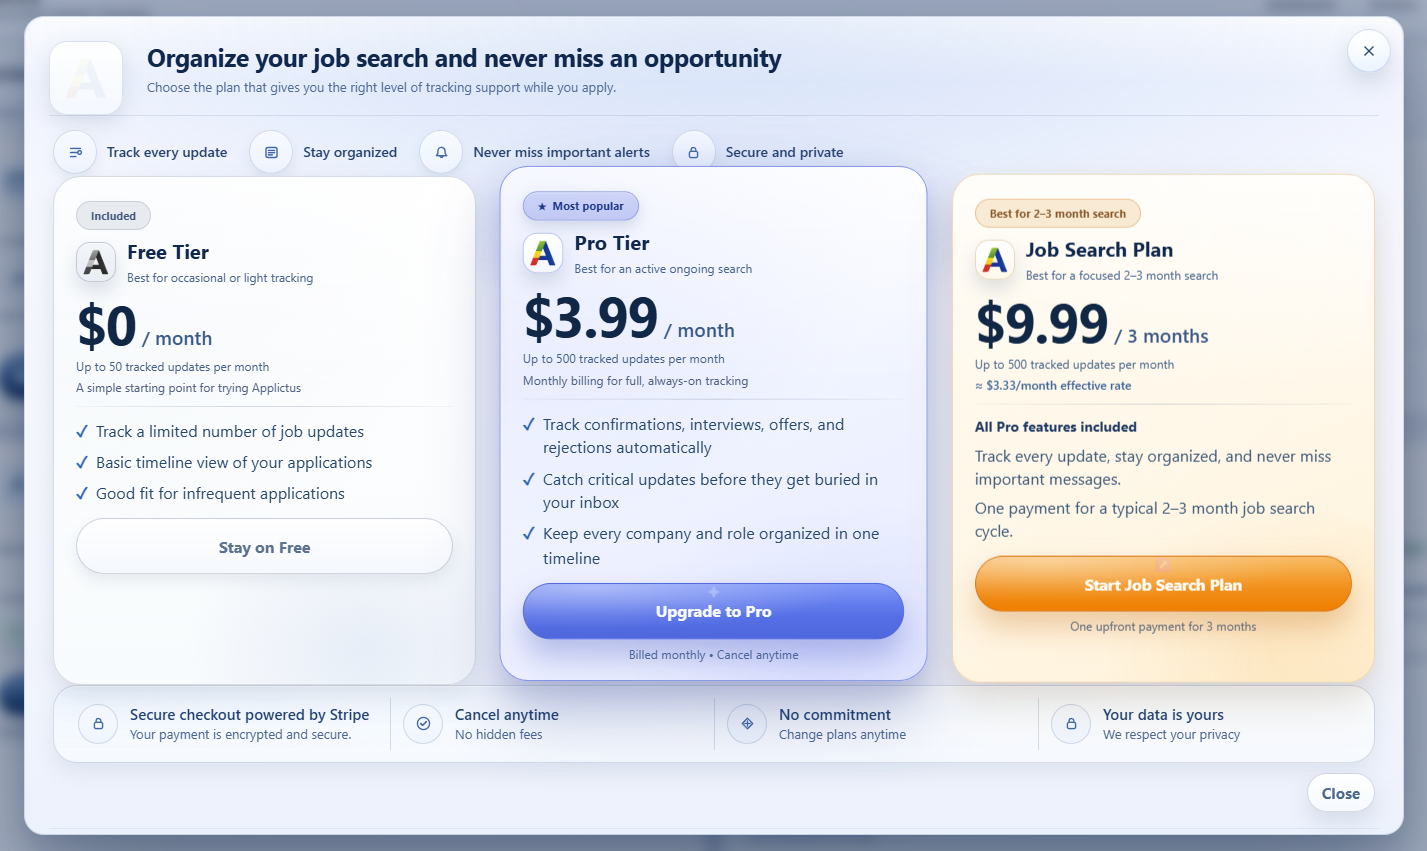
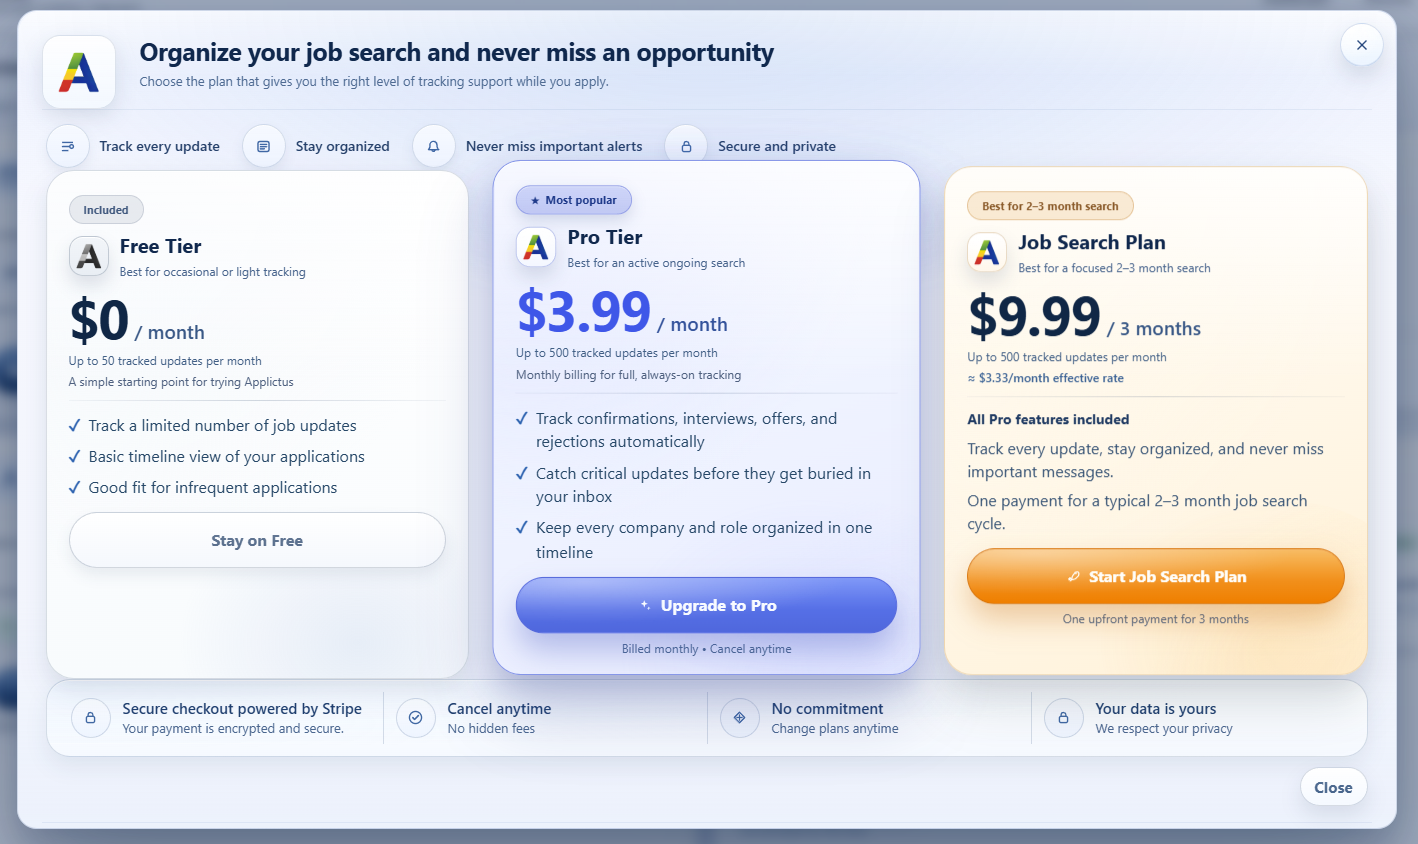
refactoring pricing modal

diff --git a/public/app.js b/public/app.js
@@ -6053,9 +6053,9 @@ function openPricingModal() {
       case 'rocket':
         return `
           <svg viewBox="0 0 20 20" focusable="false" aria-hidden="true">
-            <path d="M12.7 5.1c2.1-.6 3.7-.4 4.2.1.5.5.7 2.1.1 4.2l-3.4 3.4c-.5.5-1.1.8-1.8 1L8 14.7l.9-3.8c.2-.7.5-1.3 1-1.8Z" fill="none" stroke="currentColor" stroke-width="1.5" stroke-linejoin="round"></path>
-            <circle cx="13.6" cy="6.4" r="1" fill="currentColor"></circle>
-            <path d="M7.1 12.9 5.3 14.7M8.3 14.1l-1.8 1.8M6.4 11.9 4.6 13.7" fill="none" stroke="currentColor" stroke-width="1.5" stroke-linecap="round"></path>
+            <path d="M11.8 3.8c2.1-.3 3.8.2 4.4.8.6.6 1.1 2.3.8 4.4l-3.3 3.3a4.1 4.1 0 0 1-2.2 1.2l-2.8.6.6-2.8c.2-.8.6-1.6 1.2-2.2Z" fill="none" stroke="currentColor" stroke-width="1.6" stroke-linejoin="round"></path>
+            <circle cx="13.9" cy="6.2" r="1" fill="currentColor"></circle>
+            <path d="M7.4 12.6 5.2 14.8M8.6 13.9 6.6 15.9" fill="none" stroke="currentColor" stroke-width="1.6" stroke-linecap="round"></path>
           </svg>
         `;
       default:
@@ -6133,15 +6133,16 @@ function openPricingModal() {
       case 'track':
         return `
           <svg viewBox="0 0 20 20" focusable="false" aria-hidden="true">
-            <path d="M4.2 5.2h11.6M4.2 10h8.2M4.2 14.8h6.3" fill="none" stroke="currentColor" stroke-width="1.7" stroke-linecap="round"></path>
-            <circle cx="14.8" cy="10" r="2.1" fill="none" stroke="currentColor" stroke-width="1.7"></circle>
+            <circle cx="10" cy="10" r="5.8" fill="none" stroke="currentColor" stroke-width="1.7"></circle>
+            <circle cx="10" cy="10" r="2.7" fill="none" stroke="currentColor" stroke-width="1.7"></circle>
+            <path d="M10 1.8v2.1M10 16.1v2.1M1.8 10h2.1M16.1 10h2.1" fill="none" stroke="currentColor" stroke-width="1.7" stroke-linecap="round"></path>
           </svg>
         `;
       case 'organize':
         return `
           <svg viewBox="0 0 20 20" focusable="false" aria-hidden="true">
-            <rect x="3.5" y="4.1" width="13" height="11.8" rx="2.2" fill="none" stroke="currentColor" stroke-width="1.7"></rect>
-            <path d="M6.3 7.6h7.4M6.3 10.2h7.4M6.3 12.8h4.6" fill="none" stroke="currentColor" stroke-width="1.7" stroke-linecap="round"></path>
+            <path d="M10 2.9 15.6 5.1v4.1c0 3.1-2.2 5.7-5.6 7.2-3.4-1.5-5.6-4.1-5.6-7.2V5.1Z" fill="none" stroke="currentColor" stroke-width="1.7" stroke-linejoin="round"></path>
+            <path d="M10 7v3.4M8.3 8.7H11.7" fill="none" stroke="currentColor" stroke-width="1.7" stroke-linecap="round"></path>
           </svg>
         `;
       case 'alerts':

diff --git a/web/app.js b/web/app.js
@@ -6053,9 +6053,9 @@ function openPricingModal() {
       case 'rocket':
         return `
           <svg viewBox="0 0 20 20" focusable="false" aria-hidden="true">
-            <path d="M12.7 5.1c2.1-.6 3.7-.4 4.2.1.5.5.7 2.1.1 4.2l-3.4 3.4c-.5.5-1.1.8-1.8 1L8 14.7l.9-3.8c.2-.7.5-1.3 1-1.8Z" fill="none" stroke="currentColor" stroke-width="1.5" stroke-linejoin="round"></path>
-            <circle cx="13.6" cy="6.4" r="1" fill="currentColor"></circle>
-            <path d="M7.1 12.9 5.3 14.7M8.3 14.1l-1.8 1.8M6.4 11.9 4.6 13.7" fill="none" stroke="currentColor" stroke-width="1.5" stroke-linecap="round"></path>
+            <path d="M11.8 3.8c2.1-.3 3.8.2 4.4.8.6.6 1.1 2.3.8 4.4l-3.3 3.3a4.1 4.1 0 0 1-2.2 1.2l-2.8.6.6-2.8c.2-.8.6-1.6 1.2-2.2Z" fill="none" stroke="currentColor" stroke-width="1.6" stroke-linejoin="round"></path>
+            <circle cx="13.9" cy="6.2" r="1" fill="currentColor"></circle>
+            <path d="M7.4 12.6 5.2 14.8M8.6 13.9 6.6 15.9" fill="none" stroke="currentColor" stroke-width="1.6" stroke-linecap="round"></path>
           </svg>
         `;
       default:
@@ -6133,15 +6133,16 @@ function openPricingModal() {
       case 'track':
         return `
           <svg viewBox="0 0 20 20" focusable="false" aria-hidden="true">
-            <path d="M4.2 5.2h11.6M4.2 10h8.2M4.2 14.8h6.3" fill="none" stroke="currentColor" stroke-width="1.7" stroke-linecap="round"></path>
-            <circle cx="14.8" cy="10" r="2.1" fill="none" stroke="currentColor" stroke-width="1.7"></circle>
+            <circle cx="10" cy="10" r="5.8" fill="none" stroke="currentColor" stroke-width="1.7"></circle>
+            <circle cx="10" cy="10" r="2.7" fill="none" stroke="currentColor" stroke-width="1.7"></circle>
+            <path d="M10 1.8v2.1M10 16.1v2.1M1.8 10h2.1M16.1 10h2.1" fill="none" stroke="currentColor" stroke-width="1.7" stroke-linecap="round"></path>
           </svg>
         `;
       case 'organize':
         return `
           <svg viewBox="0 0 20 20" focusable="false" aria-hidden="true">
-            <rect x="3.5" y="4.1" width="13" height="11.8" rx="2.2" fill="none" stroke="currentColor" stroke-width="1.7"></rect>
-            <path d="M6.3 7.6h7.4M6.3 10.2h7.4M6.3 12.8h4.6" fill="none" stroke="currentColor" stroke-width="1.7" stroke-linecap="round"></path>
+            <path d="M10 2.9 15.6 5.1v4.1c0 3.1-2.2 5.7-5.6 7.2-3.4-1.5-5.6-4.1-5.6-7.2V5.1Z" fill="none" stroke="currentColor" stroke-width="1.7" stroke-linejoin="round"></path>
+            <path d="M10 7v3.4M8.3 8.7H11.7" fill="none" stroke="currentColor" stroke-width="1.7" stroke-linecap="round"></path>
           </svg>
         `;
       case 'alerts':

diff --git a/public/app/index.html b/public/app/index.html
@@ -904,10 +904,10 @@
         display: inline-flex;
         align-items: center;
         justify-content: center;
-        color: #3f67a4;
+        color: #355ee0;
         flex: 0 0 auto;
         border-radius: 999px;
-        border: 1px solid rgba(61, 92, 142, 0.18);
+        border: 1px solid rgba(82, 111, 191, 0.2);
         background: linear-gradient(180deg, rgba(247, 250, 255, 0.95), rgba(238, 244, 255, 0.94));
         box-shadow:
           inset 0 1px 0 rgba(255, 255, 255, 0.92),
@@ -984,7 +984,7 @@
         transform: translateY(-2px);
       }
       .modal--pricing .plan-card--pro {
-        border-color: rgba(78, 100, 218, 0.62);
+        border-color: rgba(76, 95, 230, 0.74);
         background:
           radial-gradient(142% 126% at 9% 0%, rgba(220, 226, 255, 0.96), rgba(255, 255, 255, 0) 58%),
           linear-gradient(160deg, #fbfcff 0%, #eff3ff 54%, #e8ebff 100%);
@@ -1102,15 +1102,19 @@
         color: #435b80;
       }
       .modal--pricing .plan-pill--popular {
-        background: linear-gradient(180deg, rgba(94, 116, 231, 0.26), rgba(75, 96, 216, 0.3));
-        border-color: rgba(82, 101, 211, 0.4);
-        color: #1f3a8a;
+        background: linear-gradient(180deg, #4a6bf0 0%, #7045de 100%);
+        border-color: rgba(84, 88, 214, 0.52);
+        color: #f8fbff;
+        box-shadow:
+          0 8px 14px rgba(72, 81, 186, 0.24),
+          inset 0 1px 0 rgba(255, 255, 255, 0.24);
       }
       .modal--pricing .plan-pill--popular::before {
         content: '★';
         font-size: 10px;
         margin-right: 6px;
         line-height: 1;
+        color: #ffffff;
       }
       .modal--pricing .plan-pill--commitment {
         background: rgba(226, 161, 71, 0.2);
@@ -1155,12 +1159,12 @@
       }
       .modal--pricing .plan-cta--pro {
         color: #f8fbff;
-        border-color: rgba(90, 107, 218, 0.68);
+        border-color: rgba(86, 83, 210, 0.74);
         background:
-          radial-gradient(118% 128% at 18% 8%, rgba(255, 255, 255, 0.34), rgba(255, 255, 255, 0) 58%),
-          linear-gradient(180deg, #5f7bf4 0%, #4f67dc 100%);
+          radial-gradient(118% 128% at 18% 8%, rgba(255, 255, 255, 0.3), rgba(255, 255, 255, 0) 58%),
+          linear-gradient(90deg, #1e57d7 0%, #3d6de8 54%, #6a3fe2 100%);
         box-shadow:
-          0 18px 30px rgba(68, 84, 190, 0.34),
+          0 18px 30px rgba(63, 74, 184, 0.36),
           inset 0 1px 0 rgba(255, 255, 255, 0.22);
       }
       .modal--pricing .plan-cta--pro:hover {

diff --git a/web/app/index.html b/web/app/index.html
@@ -904,10 +904,10 @@
         display: inline-flex;
         align-items: center;
         justify-content: center;
-        color: #3f67a4;
+        color: #355ee0;
         flex: 0 0 auto;
         border-radius: 999px;
-        border: 1px solid rgba(61, 92, 142, 0.18);
+        border: 1px solid rgba(82, 111, 191, 0.2);
         background: linear-gradient(180deg, rgba(247, 250, 255, 0.95), rgba(238, 244, 255, 0.94));
         box-shadow:
           inset 0 1px 0 rgba(255, 255, 255, 0.92),
@@ -984,7 +984,7 @@
         transform: translateY(-2px);
       }
       .modal--pricing .plan-card--pro {
-        border-color: rgba(78, 100, 218, 0.62);
+        border-color: rgba(76, 95, 230, 0.74);
         background:
           radial-gradient(142% 126% at 9% 0%, rgba(220, 226, 255, 0.96), rgba(255, 255, 255, 0) 58%),
           linear-gradient(160deg, #fbfcff 0%, #eff3ff 54%, #e8ebff 100%);
@@ -1102,15 +1102,19 @@
         color: #435b80;
       }
       .modal--pricing .plan-pill--popular {
-        background: linear-gradient(180deg, rgba(94, 116, 231, 0.26), rgba(75, 96, 216, 0.3));
-        border-color: rgba(82, 101, 211, 0.4);
-        color: #1f3a8a;
+        background: linear-gradient(180deg, #4a6bf0 0%, #7045de 100%);
+        border-color: rgba(84, 88, 214, 0.52);
+        color: #f8fbff;
+        box-shadow:
+          0 8px 14px rgba(72, 81, 186, 0.24),
+          inset 0 1px 0 rgba(255, 255, 255, 0.24);
       }
       .modal--pricing .plan-pill--popular::before {
         content: '★';
         font-size: 10px;
         margin-right: 6px;
         line-height: 1;
+        color: #ffffff;
       }
       .modal--pricing .plan-pill--commitment {
         background: rgba(226, 161, 71, 0.2);
@@ -1155,12 +1159,12 @@
       }
       .modal--pricing .plan-cta--pro {
         color: #f8fbff;
-        border-color: rgba(90, 107, 218, 0.68);
+        border-color: rgba(86, 83, 210, 0.74);
         background:
-          radial-gradient(118% 128% at 18% 8%, rgba(255, 255, 255, 0.34), rgba(255, 255, 255, 0) 58%),
-          linear-gradient(180deg, #5f7bf4 0%, #4f67dc 100%);
+          radial-gradient(118% 128% at 18% 8%, rgba(255, 255, 255, 0.3), rgba(255, 255, 255, 0) 58%),
+          linear-gradient(90deg, #1e57d7 0%, #3d6de8 54%, #6a3fe2 100%);
         box-shadow:
-          0 18px 30px rgba(68, 84, 190, 0.34),
+          0 18px 30px rgba(63, 74, 184, 0.36),
           inset 0 1px 0 rgba(255, 255, 255, 0.22);
       }
       .modal--pricing .plan-cta--pro:hover {
